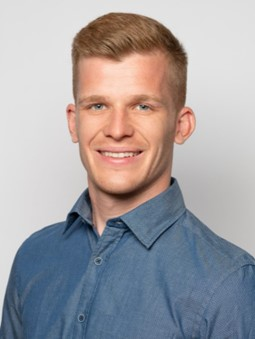
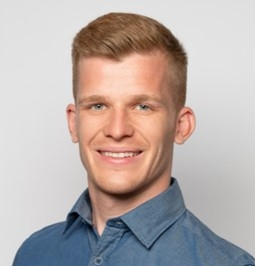
project img changed

diff --git a/src/app/projects/projects.component.html b/src/app/projects/projects.component.html
@@ -7,7 +7,7 @@
     </div> 
     <div class="projects-container">
         <div class="projects el-pollo-loco-pic" *ngIf="javascript all" data-aos="fade-left">
-            <img class="img" src="../assets/img/El-Pollop-Loco.png" alt="">
+            <img class="img" src="../assets\img\el-pollo-loco-pic.jpg" alt="">
             <div class="overlay">
                 <h4>El-Pollo-Loco</h4>
                 <p>Javascipt-based jump and run game</p>
@@ -18,7 +18,7 @@
             </div>
         </div>
         <div class="projects project-managment-tool" *ngIf="javascript all" data-aos="fade-right">
-            <img class="img " src="../assets/img/joinlogo.png" alt="">
+            <img class="img " src="../assets/img/join-pic.png" alt="">
             <div class="overlay">
                 <h4>Join</h4>
                 <p>Project-Managment tool</p>

diff --git a/src/app/projects/projects.component.scss b/src/app/projects/projects.component.scss
@@ -113,7 +113,6 @@
         .el-pollo-loco-pic {
             .img {
                 object-fit: cover;
-                object-position: -170px;
             }
         
         }
@@ -137,7 +136,9 @@
             background-color: rgba(21, 21, 190, 0.4);
 
             .img {
-            width: 30%;
+            width: 100%;
+            min-height: 100%;
+            object-fit: cover;
             }
      }
     

diff --git a/src/app/about-me/about-me.component.html b/src/app/about-me/about-me.component.html
@@ -1,6 +1,6 @@
 <div class="about-me" id="about-me">
     <div class="header">
-        <img src="../assets/img/profile-picture_1.png" alt="">
+        <img src="../assets/img/cv_pic_2.jpg" alt="">
         <div class="headline">
             <h2>About me.</h2>
             <p>
